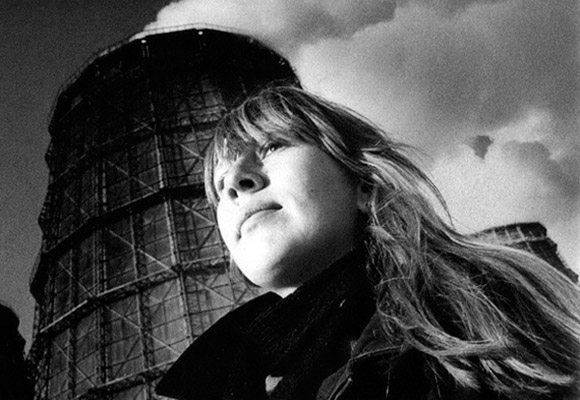
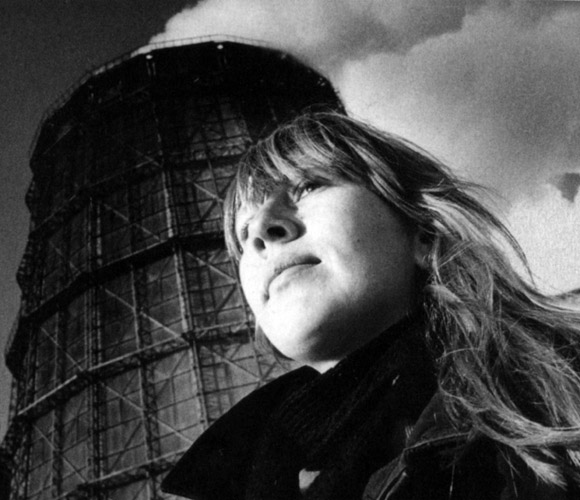
Увеличен шрифт, Заменены красные ссылки на главной на белые, Заменено изображение на главной на бОльшее

diff --git a/css/typography.css b/css/typography.css
@@ -7,7 +7,7 @@ body
 {
 	color:       #333;
 	line-height: 1.3;
-	font-size:   15px;
+	font-size:   16px;
 	min-width:   960px;
 	font-family: 'PT Sans', sans-serif;
 }
@@ -22,7 +22,7 @@ h1, h2, h3, h4, h5, h6
 h1
 {
 	font-size: 2em;
-	margin:    1.4em 0 0.7em;
+	margin:    1em 0 0.7em;
 }
 
 h2
@@ -243,7 +243,7 @@ img.img-right
 .header-inner img
 {
 	display: block;
-	margin:  15px 0;
+	margin:  15px 0 25px;
 }
 
 .signature
@@ -281,6 +281,11 @@ blockquote p.poesy
 .mainpage-menu ul li
 {
 	margin: 0 0 1.2em 0;
+}
+
+.mainpage-menu ul li a
+{
+	color: whitesmoke;
 }
 
 .mainpage-menu-1
